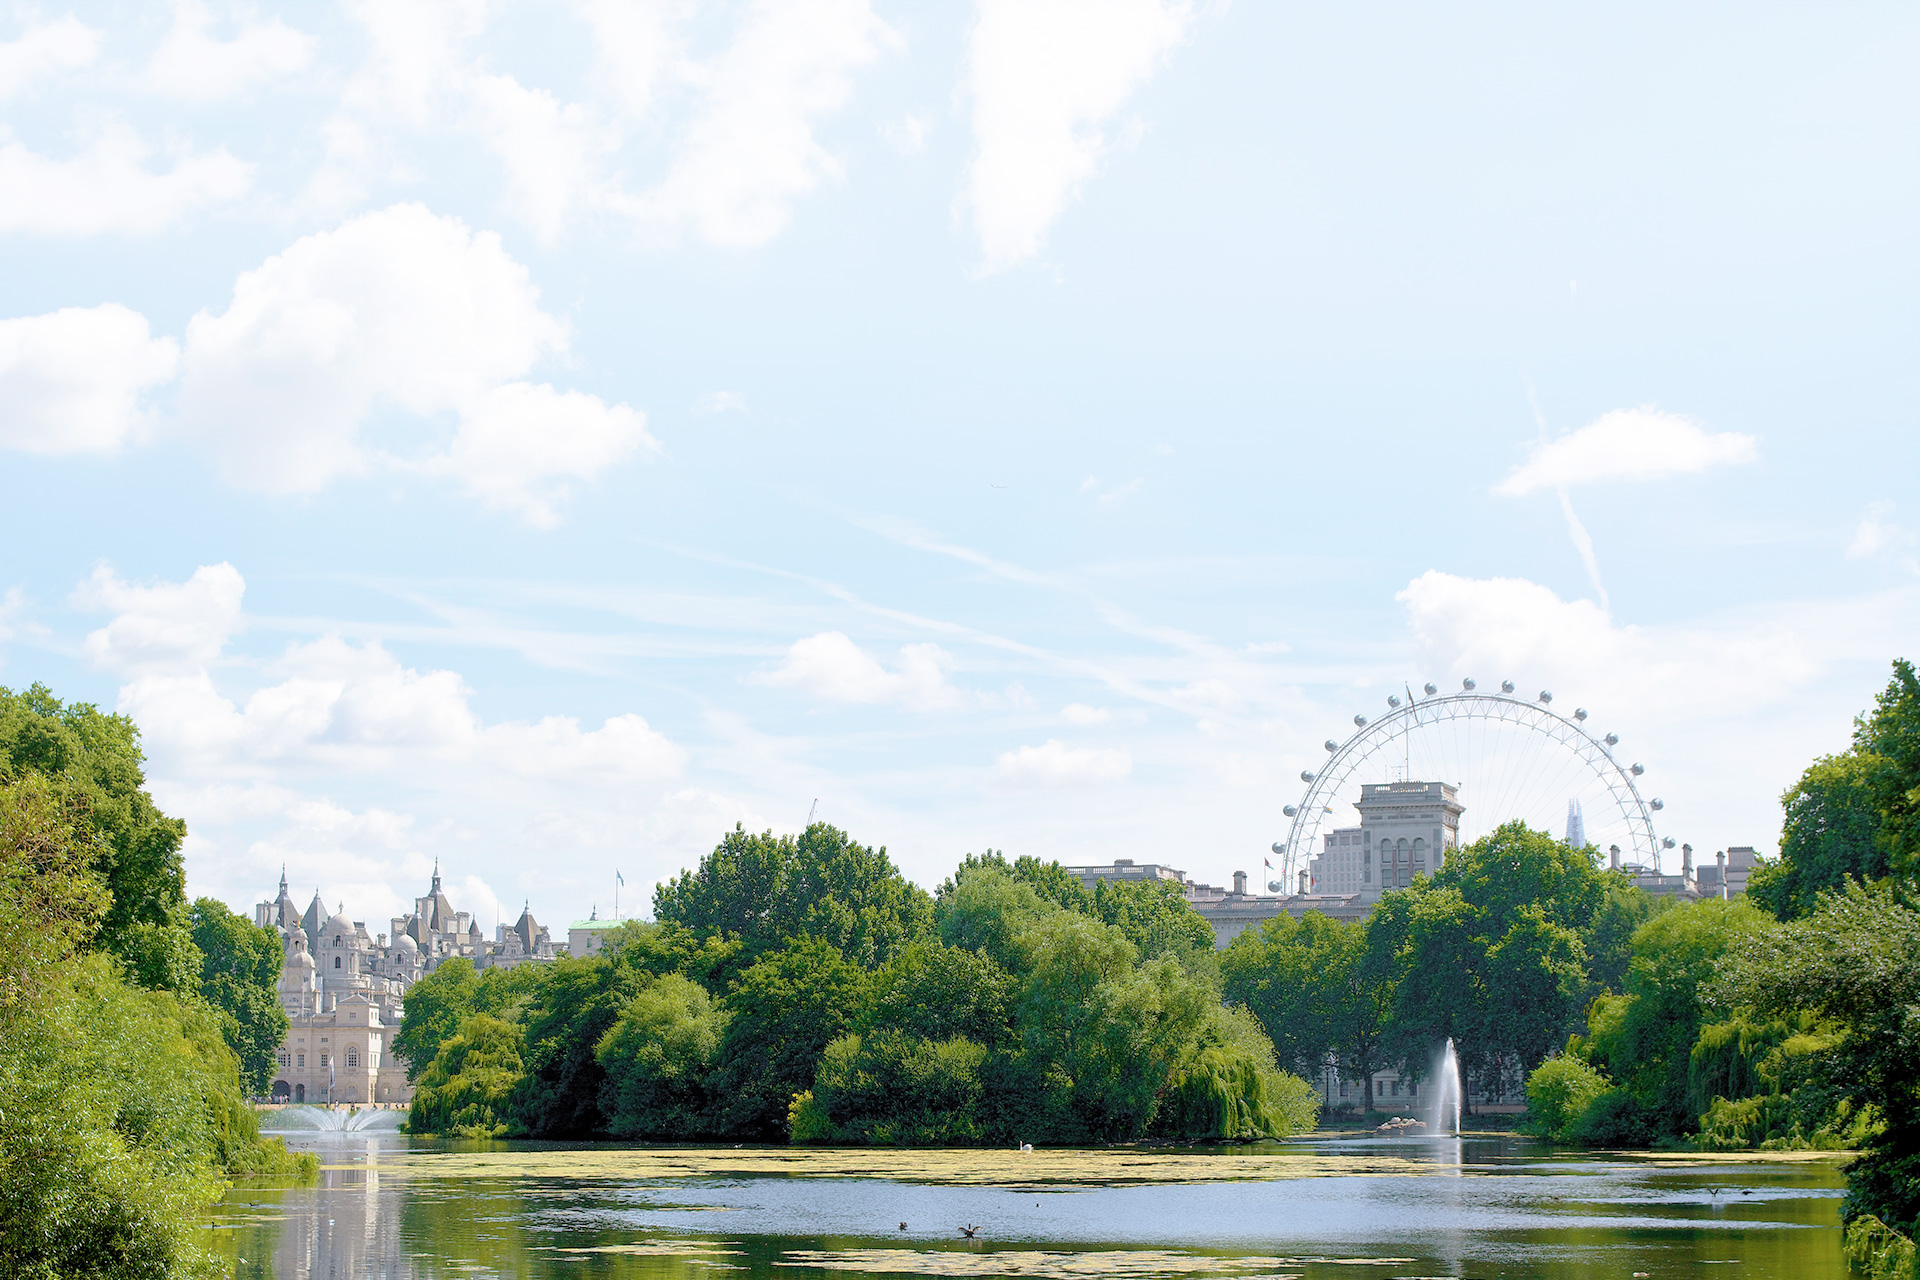
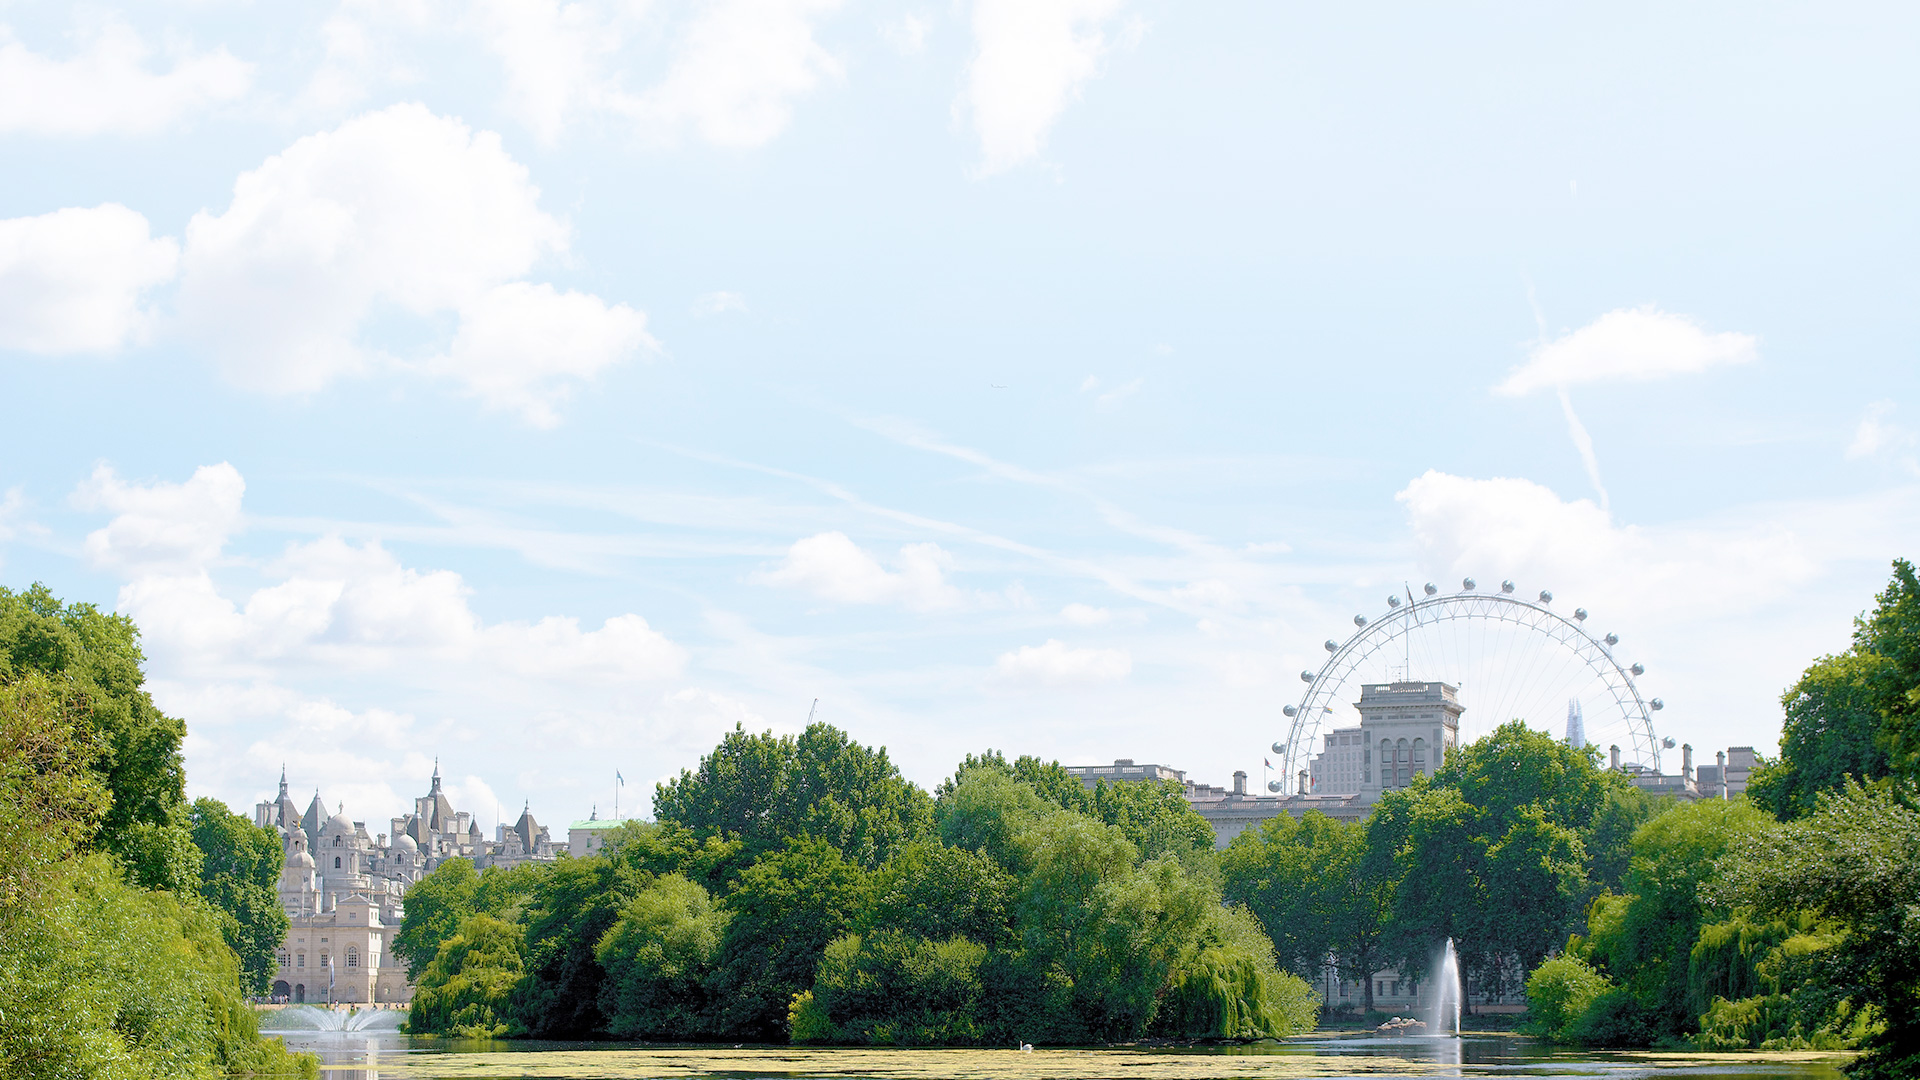
live site

diff --git a/gulpfile.js b/gulpfile.js
@@ -108,7 +108,7 @@ gulp.task('build-main-js', function(cb) {
 
     // plugins
     './node_modules/jquery/dist/jquery.min.js',
-    './node_modules/jquery-countdown/dist/jquery.countdown.min.js',
+    // './node_modules/jquery-countdown/dist/jquery.countdown.min.js',
     // './node_modules/waypoints/lib/jquery.waypoints.min.js',
 
     // custom js - with on doc ready wrapper
@@ -116,9 +116,9 @@ gulp.task('build-main-js', function(cb) {
 
     // components
     './_assets/js/_components/standard.js',
-    './_assets/js/_components/offer-countdown.js',
-    './_assets/js/_components/modal.js',
-    './_assets/js/_components/modal-nav.js',
+    // './_assets/js/_components/offer-countdown.js',
+    // './_assets/js/_components/modal.js',
+    // './_assets/js/_components/modal-nav.js',
     './_assets/js/_components/sticky-enter.js',
     './_assets/js/_components/bg-fade.js',
 

diff --git a/_assets/sass/main.scss b/_assets/sass/main.scss
@@ -22,18 +22,18 @@
   'grid/spacing',
   'grid/grid',
   'grid/layouts/bob',
-  'grid/layouts/harvey',
+  // 'grid/layouts/harvey',
 
   // navigation
   'nav/core',
-  'nav/site',
-  'nav/site-group',
-  'nav/site-footer',
+  // 'nav/site',
+  // 'nav/site-group',
+  // 'nav/site-footer',
 
   // page
   'page/footer',
   'page/banner',
-  'page/offer-promo',
+  // 'page/offer-promo',
   'page/competition',
 
   // components
@@ -42,10 +42,10 @@
   'components/bg',
   'components/buttons',
   'components/bg-img/bg-img',
-  'components/bg-img/breakpoints',
-  'components/bg-img/content',
-  'components/offer',
-  'components/modal',
+  // 'components/bg-img/breakpoints',
+  // 'components/bg-img/content',
+  // 'components/offer',
+  // 'components/modal',
   'components/sticky-enter',
 
   // general

diff --git a/_includes/components/tracking.html b/_includes/components/tracking.html
@@ -1,9 +1,9 @@
 <!-- Google Tag Manager -->
-  <!-- <noscript><iframe src="//www.googletagmanager.com/ns.html?id=GTM-TH4FN5"
+  <noscript><iframe src="//www.googletagmanager.com/ns.html?id=GTM-TH4FN5"
   height="0" width="0" style="display:none;visibility:hidden"></iframe></noscript>
   <script>(function(w,d,s,l,i){w[l]=w[l]||[];w[l].push({'gtm.start':
   new Date().getTime(),event:'gtm.js'});var f=d.getElementsByTagName(s)[0],
   j=d.createElement(s),dl=l!='dataLayer'?'&l='+l:'';j.async=true;j.src=
   '//www.googletagmanager.com/gtm.js?id='+i+dl;f.parentNode.insertBefore(j,f);
-  })(window,document,'script','dataLayer','GTM-TH4FN5');</script> -->
+  })(window,document,'script','dataLayer','GTM-TH4FN5');</script>
 <!-- End Google Tag Manager -->

diff --git a/_assets/sass/typography/_titles.scss b/_assets/sass/typography/_titles.scss
@@ -80,10 +80,12 @@
 
   // custom banner headline
   font-family: $font-title-01;
-  font-size: $s9;
+  font-size: $s5;
   line-height: 1.15;
   letter-spacing: -.025em;
-  // @include bp($md){ font-size: $s7; }
-  // @include bp($xl){ font-size: $s10; }
+  @include bp($sm){ font-size: $s6; }
+  @include bp($md){ font-size: $s7; }
+  @include bp($lg){ font-size: $s8; }
+  @include bp($xxl){ font-size: $s9; }
 
 }

diff --git a/_layouts/competition.html b/_layouts/competition.html
@@ -89,8 +89,6 @@
 
     {% include page/footer.html %}
 
-    {% include modal/modal.html %}
-
     <div class="bg__fixed" style="background-image: url('{{site.img}}/bg.jpg');">
       <div class="bg__fixed-overlay js-bg-fade"></div>
     </div>

diff --git a/_assets/sass/page/_competition.scss b/_assets/sass/page/_competition.scss
@@ -23,10 +23,12 @@
 
 .competition-title {
   height: 100%;
-  min-height: 525px;
+  min-height: 500px;
+  max-height: 700px;
   @include bp($lg){
     height: 80%;
     min-height: 650px;
+    max-height: none;
   }
 }
 

diff --git a/_pages/index.html b/_pages/index.html
@@ -8,7 +8,7 @@ intro: Enter below to be in with a chance of winning a night’s stay at The Ath
 
 entry-form:
   url: https://promotion5245.strutta.me
-  height: 780
+  height: 790
 
 prize-detail:
 

diff --git a/_assets/sass/components/_bg.scss b/_assets/sass/components/_bg.scss
@@ -13,6 +13,7 @@
     bottom: 0;
     z-index: $z-background;
     @include background-attributes;
+    background-position: top center;
     &-overlay {
       position: absolute;
       top: 0;
